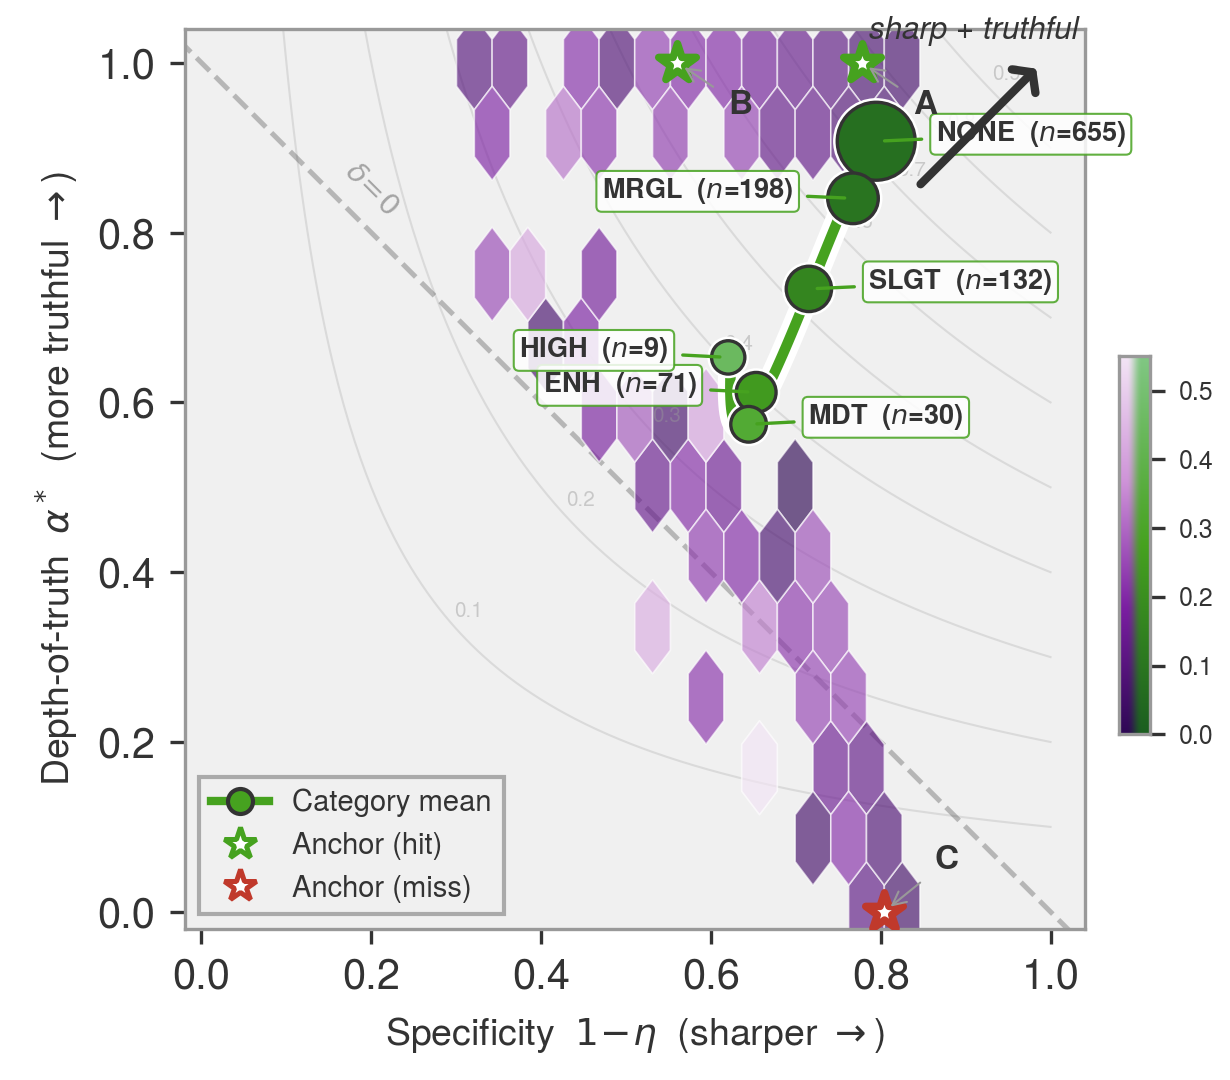
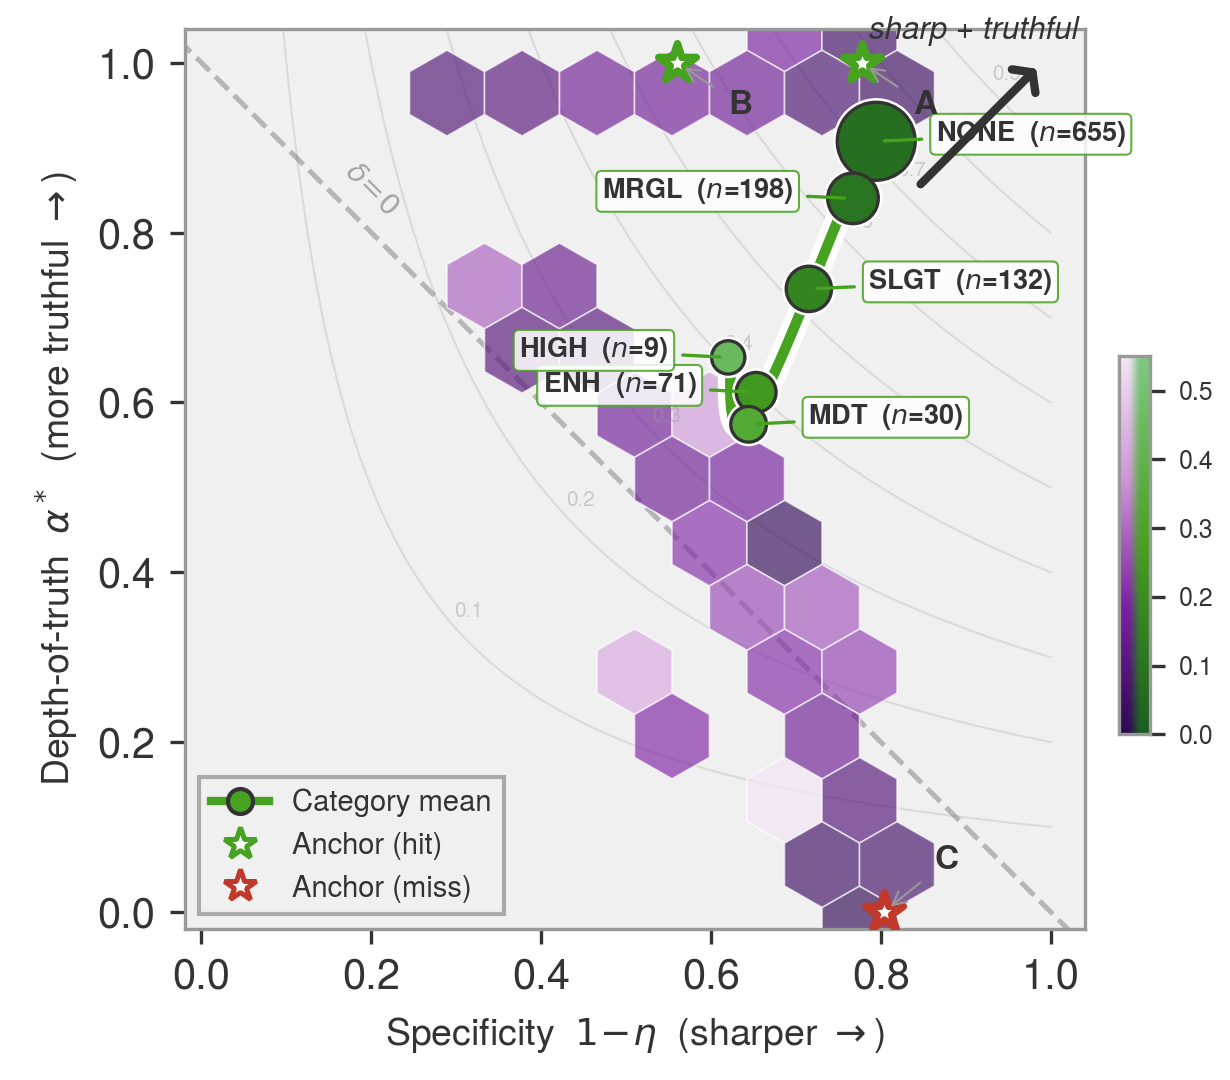
Fix hex distortion (gridsize tuple) and bounds label overlap
Matplotlib's default ny=int(nx/√3) floors instead of rounding,
producing hexagons ~16% too tall. Explicit gridsize=(nx, ny) tuples
with correct rounding fix this to <1% distortion:
- v3b: gridsize=(12, 7) with extent matching axes limits
- v4b: gridsize=(11, 8) with extent matching axes limits

Also merge overlapping L/U labels in bounds figure when L≈U
(Sharp-Wrong: [0, 0] now shows "L=U=0.00" cleanly).

diff --git a/scripts/fig_perf_iterate.py b/scripts/fig_perf_iterate.py
@@ -292,8 +292,11 @@ def v3b(data, ap, spec, anchors):
     draw_hyperbolas(ax)
     draw_delta0_diag(ax)
 
+    # gridsize=(nx, ny): matplotlib's default ny=int(nx/sqrt(3)) rounds
+    # DOWN, producing hexagons ~16% too tall.  (12, 7) gives <1% error.
     ax.hexbin(spec, ap, C=data['H_Pi'],
-              reduce_C_function=np.mean, gridsize=12, cmap=cm,
+              reduce_C_function=np.mean, gridsize=(12, 7), cmap=cm,
+              extent=(-0.02, 1.04, -0.02, 1.04),
               edgecolors="white", linewidths=0.4, mincnt=1,
               alpha=0.65, zorder=1)
 
@@ -378,7 +381,9 @@ def v4b(data, ap, spec, anchors):
     ax.set_ylim(-0.45, 0.85)
     ax.set_aspect('equal')
 
-    hb = ax.hexbin(pi_max, delta, gridsize=12, cmap=cm,
+    # gridsize=(11, 8): gives <1% hex distortion for this aspect ratio.
+    hb = ax.hexbin(pi_max, delta, gridsize=(11, 8), cmap=cm,
+                   extent=(-0.02, 1.02, -0.45, 0.85),
                    edgecolors="white", linewidths=0.4, mincnt=1, zorder=2)
     hb.set_norm(LogNorm(vmin=1, vmax=hb.get_array().max()))
 

diff --git a/scripts/fig_upper_lower_bounds.py b/scripts/fig_upper_lower_bounds.py
@@ -80,11 +80,15 @@ def main():
         ax.plot(L, y, "o", color=PURPLE, markersize=7, zorder=3)
         ax.plot(U, y, "o", color=PURPLE, markersize=7, zorder=3)
 
-        # Numeric labels
-        ax.text(L, y + 0.25, f"L={L:.3f}", ha="center", va="bottom",
-                fontsize=8, color=DARK_GREY)
-        ax.text(U, y + 0.25, f"U={U:.3f}", ha="center", va="bottom",
-                fontsize=8, color=DARK_GREY)
+        # Numeric labels (merge when L ≈ U to avoid overlap)
+        if abs(U - L) < 0.01:
+            ax.text(L, y + 0.25, f"L=U={L:.2f}", ha="center", va="bottom",
+                    fontsize=8, color=DARK_GREY)
+        else:
+            ax.text(L, y + 0.25, f"L={L:.3f}", ha="center", va="bottom",
+                    fontsize=8, color=DARK_GREY)
+            ax.text(U, y + 0.25, f"U={U:.3f}", ha="center", va="bottom",
+                    fontsize=8, color=DARK_GREY)
 
     ax.set_yticks(y_positions)
     ax.set_yticklabels(labels, fontsize=9)
